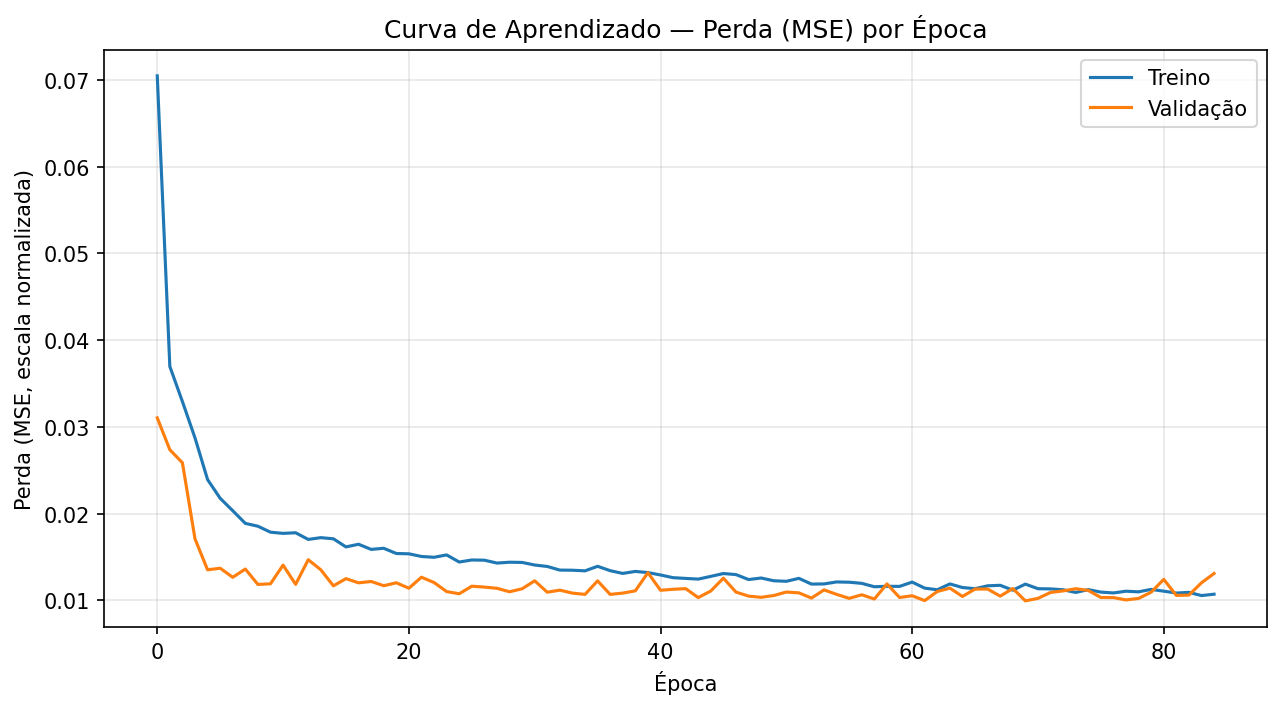
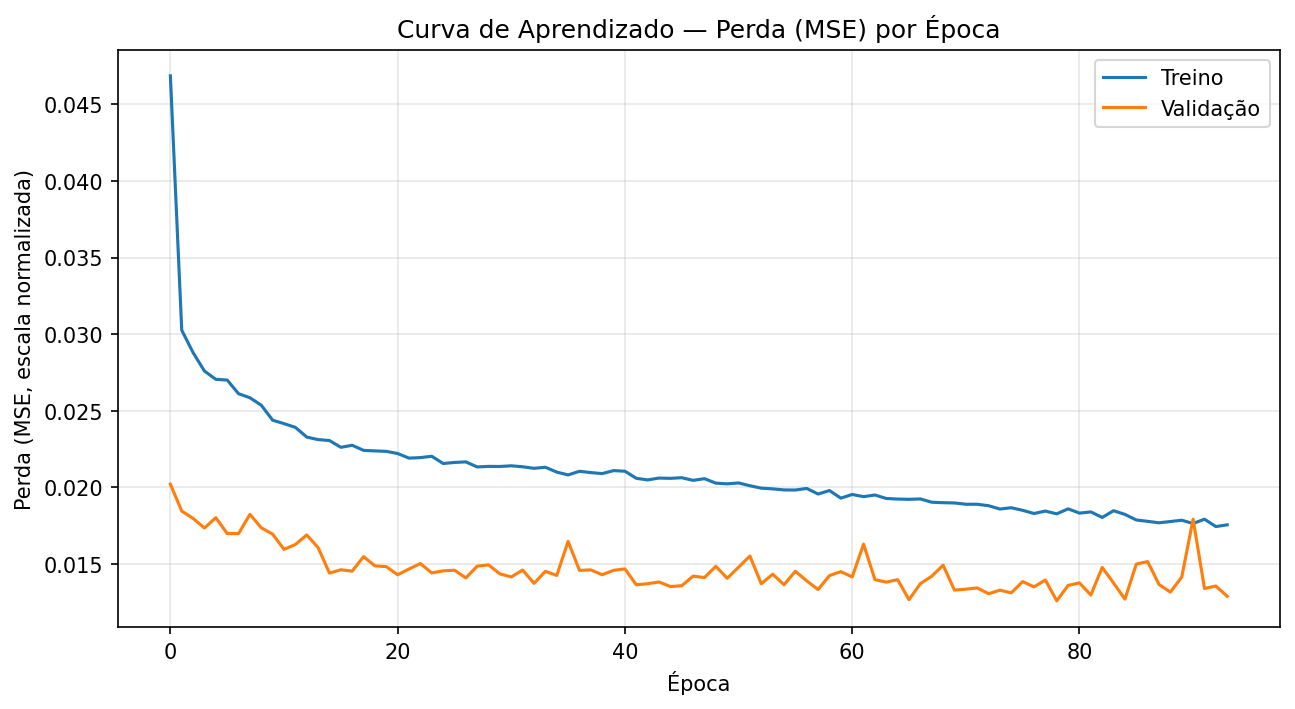
Modelo pronto

diff --git a/normalização.py b/normalização.py
@@ -1,0 +1,94 @@
+import numpy as np
+import pandas as pd
+
+from sklearn.preprocessing import MinMaxScaler
+from sklearn.model_selection import train_test_split
+
+def normalizacao(df, df_teste, janela = 30, RUL_MAX = 125):
+    
+    scaler = MinMaxScaler()
+    
+    #Laço for para percorrer todas as colunas que começam com 'sensor_', coletando todos os sensores e armazenando em um array
+    col = [c for c in df.columns if c.startswith('sensor_') or c.startswith('op_setting_')]
+    
+    #Calcula o desvio padrão de todas as colunas
+    desvios = df[col].std()
+    
+    #Guarda as colunas cujo o desvio padrão é igual a 0
+    col_remove = desvios[desvios == 0].index
+    
+    #Usa as colunas guardadas em col_remove pra remover do DataFrame
+    df = df.drop(columns=col_remove)
+    df_teste = df_teste.drop(columns=col_remove)
+    
+    #Guarda todos os sensores do DataFrame
+    col_sensores = [c for c in df.columns if c.startswith('sensor_')]
+    
+    #Usando MinMaxSacaler, normalizamos os valores das colunas armazenadas em 'col_sensores' e armazenamos em si mesma, deixando os valores de cada linhas entre o intervalo de 1 e 0
+    df[col_sensores] = scaler.fit_transform(df[col_sensores])
+    df_teste[col_sensores] = scaler.transform(df_teste[col_sensores])
+    
+    
+    #Criação dos arrays para armazenar os valores
+    x = []
+    y = []
+    ids = []
+    
+    #Nota: Olhar melhor essa parte para compreensão
+    #Usando o comando unique, pegamos somente um motor de cada vez e salvamos todas as informações dele em 'motor'
+    for motor in df['unit_number'].unique():
+        
+        #Salva todos os dados do motor
+        dados_motor = df[df['unit_number'] == motor]
+        
+        #Separa somente os dados dos sensores e os salva como valores brutos, ignorando o tipo gerado pelo pandas
+        sensores = dados_motor[col_sensores].values
+        
+        #Salva o RUL do motor tambem como valores brutos ignorando o tipo gerado pelo pandas
+        rul = dados_motor['RUL'].values
+        
+        for i in range(len(dados_motor) - janela + 1):
+            x.append(sensores[i : i + janela])
+            y.append(rul[i + janela - 1])
+            ids.append(motor)
+            
+    x = np.array(x)
+    y = np.array(y)
+    ids = np.array(ids)
+    
+    
+    motores = df['unit_number'].unique()
+    m_treino, m_val = train_test_split(motores, test_size = 0.2, random_state = 42)
+    
+    
+    mask_tr = np.isin(ids, m_treino)
+    mask_val = np.isin(ids, m_val)
+    
+    
+    x_treino, y_treino = x[mask_tr], y[mask_tr]
+    x_val, y_val = x[mask_val], y[mask_val]
+    
+    
+    y_treino_norm = y_treino / RUL_MAX
+    y_val_norm = y_val / RUL_MAX
+    
+    x_teste = []
+    
+    for motor in df_teste['unit_number'].unique():
+        dados_motor = df_teste[df_teste['unit_number'] == motor]
+        sensores = dados_motor[col_sensores].values
+        
+        if len(sensores) >= janela:
+            ultima_janela = sensores[-janela:]
+            
+        else:
+            faltam = janela - len(sensores)
+            preenchimento = np.repeat(sensores[0:1], faltam, axis=0)
+            ultima_janela = np.vstack([preenchimento, sensores])
+            
+        x_teste.append(ultima_janela)
+        
+    x_teste = np.array(x_teste)
+    
+    return x_treino, x_val, y_treino_norm, y_val_norm, scaler, col_sensores, col_remove, y_val, x_teste
+    

diff --git a/modelo.py b/modelo.py
@@ -1,0 +1,73 @@
+from tensorflow.keras.models import Sequential
+from tensorflow.keras.layers import LSTM, Dropout, Dense
+from tensorflow.keras.optimizers import Adam
+from tensorflow.keras.callbacks import EarlyStopping
+
+import numpy as np
+import pandas as pd
+
+
+def modelo(janela, teto, x_treino, x_val, y_treino_norm, y_val_norm, y_val, df, x_teste, rul_verdadeiro):
+    
+    modelo = Sequential([
+    LSTM(64, return_sequences=True, input_shape=(janela, x_treino.shape[2])),
+    Dropout(0.2),
+    LSTM(32),
+    Dropout(0.2),
+    Dense(1)
+    ])
+    
+    modelo.compile(
+        loss='mse',
+        optimizer='Adam',
+        metrics=['mae']
+    )
+    
+    modelo.summary()
+    
+    early_stop = EarlyStopping(
+        monitor='val_loss',
+        patience=15,
+        restore_best_weights=True
+    )
+    
+    historico = modelo.fit(
+        x_treino, y_treino_norm,
+        validation_data=(x_val, y_val_norm),
+        epochs=100,
+        batch_size=256,
+        callbacks=[early_stop],
+        verbose = 1
+    )
+    
+    prev_norm = modelo.predict(x_val)
+    prev_ciclos = prev_norm.flatten() * teto
+    
+    
+    print('\n========VALORES DO TREINO========\n')
+    
+    mae_ciclos = np.mean(np.abs(prev_ciclos - y_val))
+    print("MAE em ciclos reais:", round(mae_ciclos, 2))
+    print("\nPrevisões (ciclos):", prev_ciclos[:10].round(1))
+    print("Reais (ciclos):    ", y_val[:10])
+    print(y_val.min(), y_val.max(), np.unique(y_val)[:20])
+    print('\n========================\n')
+    
+    #Inicio do teste do modelo no arquivo test_FD001.txt
+    
+    prev_teste_norm = modelo.predict(x_teste)
+    prev_teste = prev_teste_norm.flatten() * teto
+    prev_teste = np.clip(prev_teste,0, teto)
+    
+    rmse = np.sqrt(np.mean((prev_teste - rul_verdadeiro) ** 2))
+    mae = np.mean(np.abs(prev_teste - rul_verdadeiro))
+    
+    print("\n===== RESULTADOS NO TESTE OFICIAL =====")
+    print("RMSE:", round(rmse, 2), "ciclos")
+    print("MAE: ", round(mae, 2), "ciclos")
+    print("\nExemplo — Previsões:", prev_teste[:10].round(1))
+    print("Exemplo — Reais:    ", rul_verdadeiro[:10])
+    
+    return historico, rul_verdadeiro, prev_teste
+    
+    

diff --git a/dados.py b/dados.py
@@ -1,0 +1,46 @@
+import numpy as np
+import pandas as pd
+
+
+def coletaDados(RUL_TETO = 125):
+    
+    
+    #Definição dos nomes das colunas
+    col_nomes = ['unit_number', 'time_in_cycles', 'op_setting_1', 'op_setting_2', 'op_setting_3']
+    col_nomes += [f'sensor_{i}' for i in range(1, 22)]
+
+
+    #Leitura do arquivo de treino, usando 'espaços' como separador, indicando que não temos um header, e que vamos nomear cada coluna com as colunas inseridas na variavel 'col_nomes'
+    df = pd.read_csv('train_FD001.txt', sep=r'\s+', header=None, names=col_nomes)
+    df_teste = pd.read_csv('test_FD001.txt', sep=r'\s+', header=None, names=col_nomes)
+
+    rul_verdadeiro = pd.read_csv('RUL_FD001.txt', header=None, names=['RUL_real'])
+    rul_verdadeiro = rul_verdadeiro['RUL_real'].values
+
+    #Armazenando o maior ciclo de cada motor
+    ciclo_max = df.groupby('unit_number')['time_in_cycles'].max()
+
+
+    #print(ciclo_max)
+
+
+    #Define a coluna 'ciclo_max' com o valor total da vida do motor
+    df['ciclo_max'] = df['unit_number'].map(ciclo_max)
+
+
+    #Define a coluna 'RUL' com a quantidade de ciclos restantes da vida do motor, subitraindo o 'ciclo_max' com a coluna 'time_in_cycles', sendo o resultado, o tempo de vida restante do motor
+    df['RUL'] = df['ciclo_max'] - df['time_in_cycles']
+
+    # print('RUL antes do limte do teto:\n', df['RUL'])
+
+
+    #Comando clip(upper=RUL_TETO) vai limitar o malor maximo de RUL ao valor informado Ex: RUL_TETO = 120, df['RUL'] = 200 passa a ser 120
+    df['RUL'] = df['RUL'].clip(upper=RUL_TETO)
+    
+    
+    # print(f'RUL depois do limte do teto deve ser {RUL_TETO}:\n', df['RUL'])
+
+    #Comando .drop(columns='ciclo_max') para apagar a coluna 'ciclo_max' que no momento virou lixo pois seria varias linhas com o mesmo valor
+    df = df.drop(columns='ciclo_max')
+    
+    return df, df_teste, rul_verdadeiro

diff --git a/graficos.py b/graficos.py
@@ -1,0 +1,49 @@
+
+
+
+import matplotlib.pyplot as plt
+import matplotlib
+matplotlib.use("TkAgg")
+import numpy as np
+
+def geraGraficos(historico, rul_verdadeiro, prev_teste):
+    
+    plt.figure(figsize=(10, 5))
+    plt.plot(historico.history['loss'], label='Treino')
+    plt.plot(historico.history['val_loss'], label='Validação')
+    plt.title('Curva de Aprendizado — Perda (MSE) por Época')
+    plt.xlabel('Época')
+    plt.ylabel('Perda (MSE, escala normalizada)')
+    plt.legend()
+    plt.grid(True, alpha=0.3)
+    plt.savefig('grafico_curva_treino.png', dpi=150, bbox_inches='tight')
+    plt.show()
+
+    plt.figure(figsize=(7, 7))
+    plt.scatter(rul_verdadeiro, prev_teste, alpha=0.6, edgecolors='k', linewidths=0.5)
+    # linha diagonal (previsão perfeita)
+    lim_max = max(rul_verdadeiro.max(), prev_teste.max())
+    plt.plot([0, lim_max], [0, lim_max], 'r--', label='Previsão perfeita')
+    plt.title('RUL Previsto vs. RUL Real (Teste)')
+    plt.xlabel('RUL Real (ciclos)')
+    plt.ylabel('RUL Previsto (ciclos)')
+    plt.legend()
+    plt.grid(True, alpha=0.3)
+    plt.savefig('grafico_previsto_vs_real.png', dpi=150, bbox_inches='tight')
+    plt.show()
+
+    # Ordena pelos valores reais, do menor pro maior
+    ordem = np.argsort(rul_verdadeiro)
+    real_ord = rul_verdadeiro[ordem]
+    prev_ord = prev_teste[ordem]
+
+    plt.figure(figsize=(12, 5))
+    plt.plot(real_ord, label='RUL Real', linewidth=2)
+    plt.plot(prev_ord, label='RUL Previsto', alpha=0.7)
+    plt.title('RUL Previsto vs. Real — 100 motores de teste (ordenados)')
+    plt.xlabel('Motores (ordenados por RUL real crescente)')
+    plt.ylabel('RUL (ciclos)')
+    plt.legend()
+    plt.grid(True, alpha=0.3)
+    plt.savefig('grafico_previsoes_ordenadas.png', dpi=150, bbox_inches='tight')
+    plt.show()

diff --git a/main.py b/main.py
@@ -1,0 +1,26 @@
+from dados import coletaDados
+from normalização import normalizacao
+from modelo import modelo
+from graficos import geraGraficos
+
+import numpy as np
+import pandas as pd
+
+janela = int(input('Tamanho de janela: '))
+teto = int(input('Teto Maximo do RUL: '))
+
+
+
+df, df_teste, rul_verdadeiro = coletaDados(teto)
+
+print()
+
+x_treino, x_val, y_treino_norm, y_val_norm, scaler, col_sensores, col_remove, y_val, x_teste = normalizacao(df, df_teste, janela, teto)
+
+print('========================================================')
+print(y_val.min(), y_val.max(), np.unique(y_val)[:20])
+
+historico, rul_verdadeiro, prev_teste = modelo(janela, teto, x_treino, x_val, y_treino_norm, y_val_norm, y_val, df, x_teste, rul_verdadeiro)
+
+geraGraficos(historico, rul_verdadeiro, prev_teste)
+
